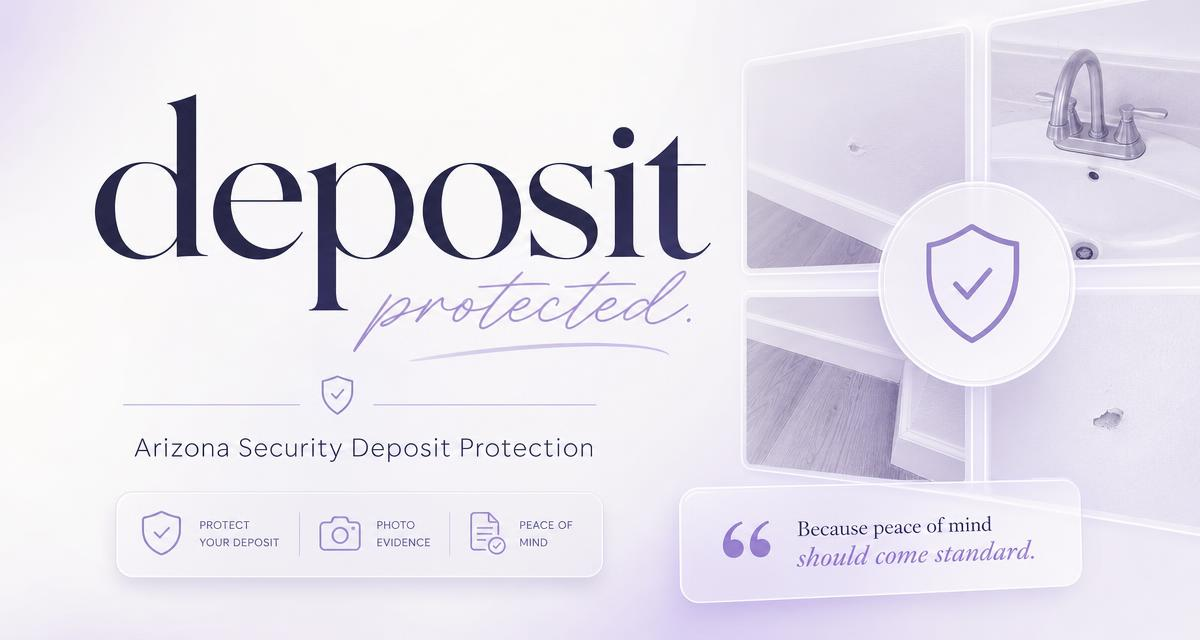
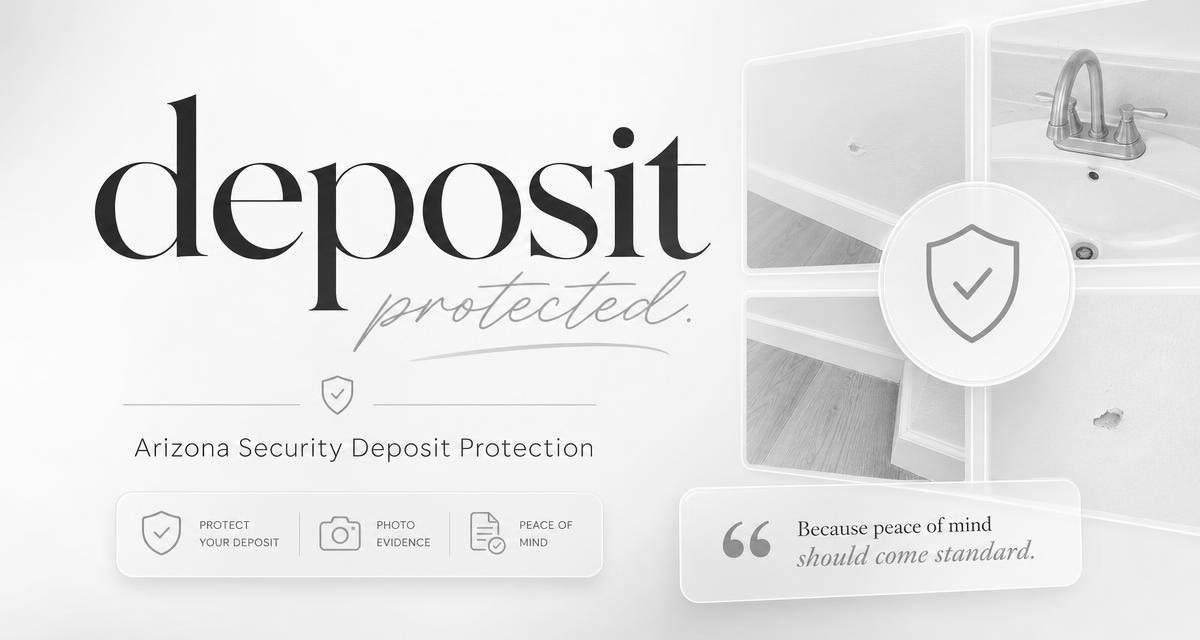
Changes

diff --git a/src/lib/marketing-template.ts b/src/lib/marketing-template.ts
@@ -22,11 +22,11 @@ function linkify(escaped: string) {
   return escaped
     .replace(
       /(https?:\/\/[^\s<]+[^\s<.,;:!?)"'])/g,
-      '<a href="$1" style="color:#7c5cc4;text-decoration:underline;">$1</a>',
+      '<a href="$1" style="color:#202020;text-decoration:underline;">$1</a>',
     )
     .replace(
       /(^|[\s(])([\w.+-]+@[\w-]+\.[\w.-]{2,})/g,
-      '$1<a href="mailto:$2" style="color:#7c5cc4;text-decoration:underline;">$2</a>',
+      '$1<a href="mailto:$2" style="color:#202020;text-decoration:underline;">$2</a>',
     );
 }
 
@@ -40,7 +40,7 @@ export function renderCampaignHtml(
     .filter(Boolean)
     .map(
       (p) =>
-        `<p style="margin:0 0 16px;font-size:16px;line-height:1.65;color:#2c2733;">${linkify(
+        `<p style="margin:0 0 16px;font-size:16px;line-height:1.65;color:#292929;">${linkify(
           escapeHtml(p),
         ).replace(/\n/g, "<br />")}</p>`,
     )
@@ -48,7 +48,7 @@ export function renderCampaignHtml(
 
   const cta =
     c.ctaLabel && c.ctaUrl
-      ? `<div style="margin:28px 0 8px;"><a href="${escapeHtml(c.ctaUrl)}" style="display:inline-block;background:#7c5cc4;color:#ffffff;text-decoration:none;font-size:15px;font-weight:600;padding:13px 26px;border-radius:14px;">${escapeHtml(
+      ? `<div style="margin:28px 0 8px;"><a href="${escapeHtml(c.ctaUrl)}" style="display:inline-block;background:#171717;color:#ffffff;text-decoration:none;font-size:15px;font-weight:600;padding:13px 26px;border-radius:14px;">${escapeHtml(
           c.ctaLabel,
         )}</a></div>`
       : "";
@@ -57,27 +57,27 @@ export function renderCampaignHtml(
 <html lang="en"><head><meta charset="utf-8" /><meta name="viewport" content="width=device-width,initial-scale=1" /></head>
 <body style="margin:0;background-color:#ffffff;font-family:-apple-system,Segoe UI,Helvetica,Arial,sans-serif;">
   <div style="display:none;max-height:0;overflow:hidden;opacity:0;">${escapeHtml(c.previewText ?? "")}</div>
-  <table role="presentation" width="100%" cellpadding="0" cellspacing="0" style="background:#faf9fc;padding:32px 16px;">
+  <table role="presentation" width="100%" cellpadding="0" cellspacing="0" style="background:#f2f2f2;padding:32px 16px;">
     <tr><td align="center">
-      <table role="presentation" width="100%" cellpadding="0" cellspacing="0" style="max-width:560px;background:#ffffff;border:1px solid #ece9f2;border-radius:20px;">
+      <table role="presentation" width="100%" cellpadding="0" cellspacing="0" style="max-width:560px;background:#ffffff;border:1px solid #d9d9d9;border-radius:20px;">
         <tr><td style="padding:32px 32px 8px;">
-          <div style="font-size:26px;color:#7c5cc4;font-family:Georgia,'Times New Roman',serif;font-style:italic;">deposit</div>
+          <div style="font-size:26px;color:#171717;font-family:Georgia,'Times New Roman',serif;font-style:italic;">deposit</div>
         </td></tr>
         <tr><td style="padding:8px 32px 32px;">
-          ${c.headline ? `<h1 style="margin:8px 0 18px;font-size:24px;line-height:1.25;color:#141019;">${escapeHtml(c.headline)}</h1>` : ""}
+          ${c.headline ? `<h1 style="margin:8px 0 18px;font-size:24px;line-height:1.25;color:#171717;">${escapeHtml(c.headline)}</h1>` : ""}
           ${paragraphs}
           ${cta}
         </td></tr>
         <tr><td style="padding:0 32px 30px;">
-          <hr style="border:none;border-top:1px solid #ece9f2;margin:0 0 16px;" />
-          <p style="margin:0 0 8px;font-size:12px;line-height:1.6;color:#8a8494;">
+          <hr style="border:none;border-top:1px solid #d9d9d9;margin:0 0 16px;" />
+          <p style="margin:0 0 8px;font-size:12px;line-height:1.6;color:#727272;">
             deposit helps Arizona renters document move-in and move-out condition under A.R.S. § 33-1321.
             This is documentation software, not legal advice.
           </p>
-          <p style="margin:0;font-size:12px;color:#8a8494;">
+          <p style="margin:0;font-size:12px;color:#727272;">
             You are receiving this because you signed up at
-            <a href="${SITE}" style="color:#7c5cc4;">myazdepositportal.live</a>.
-            <a href="${unsubscribeUrl}" style="color:#8a8494;text-decoration:underline;">Unsubscribe</a>
+            <a href="${SITE}" style="color:#202020;">myazdepositportal.live</a>.
+            <a href="${unsubscribeUrl}" style="color:#727272;text-decoration:underline;">Unsubscribe</a>
           </p>
         </td></tr>
       </table>

diff --git a/src/styles.css b/src/styles.css
@@ -118,9 +118,9 @@
   );
   --gradient-pink: linear-gradient(
     135deg,
-    oklch(0.2 0 0) 0%,
-    oklch(0.115 0 0) 48%,
-    oklch(0.17 0 0) 100%
+    oklch(0.14 0 0) 0%,
+    oklch(0.14 0 0) 50%,
+    oklch(0.14 0 0) 100%
   );
   --gradient-holo: linear-gradient(
     115deg,
@@ -316,11 +316,10 @@
   border-radius: 9999px;
   color: oklch(1 0 0);
   background-image: var(--gradient-pink);
-  border: 1px solid oklch(1 0 0 / 0.35);
+  border: 1px solid oklch(0.08 0 0);
   box-shadow:
     0 1px 2px oklch(0.18 0 0 / 0.08),
-    0 12px 32px -12px color-mix(in oklab, var(--lavender) 70%, transparent),
-    inset 0 1px 0 oklch(1 0 0 / 0.35);
+    0 12px 32px -12px oklch(0.1 0 0 / 0.5);
   transition:
     transform 0.15s ease,
     box-shadow 0.25s ease,
@@ -328,11 +327,10 @@
 
   &:hover {
     transform: translateY(-1px);
-    filter: brightness(1.08);
+    filter: brightness(1.18);
     box-shadow:
       0 2px 4px oklch(0.18 0 0 / 0.08),
-      0 20px 44px -14px color-mix(in oklab, var(--lavender) 85%, transparent),
-      inset 0 1px 0 oklch(1 0 0 / 0.45);
+      0 20px 44px -14px oklch(0.1 0 0 / 0.58);
   }
 
   &:active {

diff --git a/src/routes/auth.tsx b/src/routes/auth.tsx
@@ -197,7 +197,9 @@ function AuthPage() {
                   <div className="flex items-center gap-3">
                     <div
                       className={`flex h-10 w-10 items-center justify-center rounded-full ${
-                        active ? "bg-lavender text-white" : "bg-muted text-muted-foreground"
+                        active
+                          ? "bg-primary text-primary-foreground"
+                          : "bg-muted text-muted-foreground"
                       }`}
                     >
                       <Icon className="h-5 w-5" />
